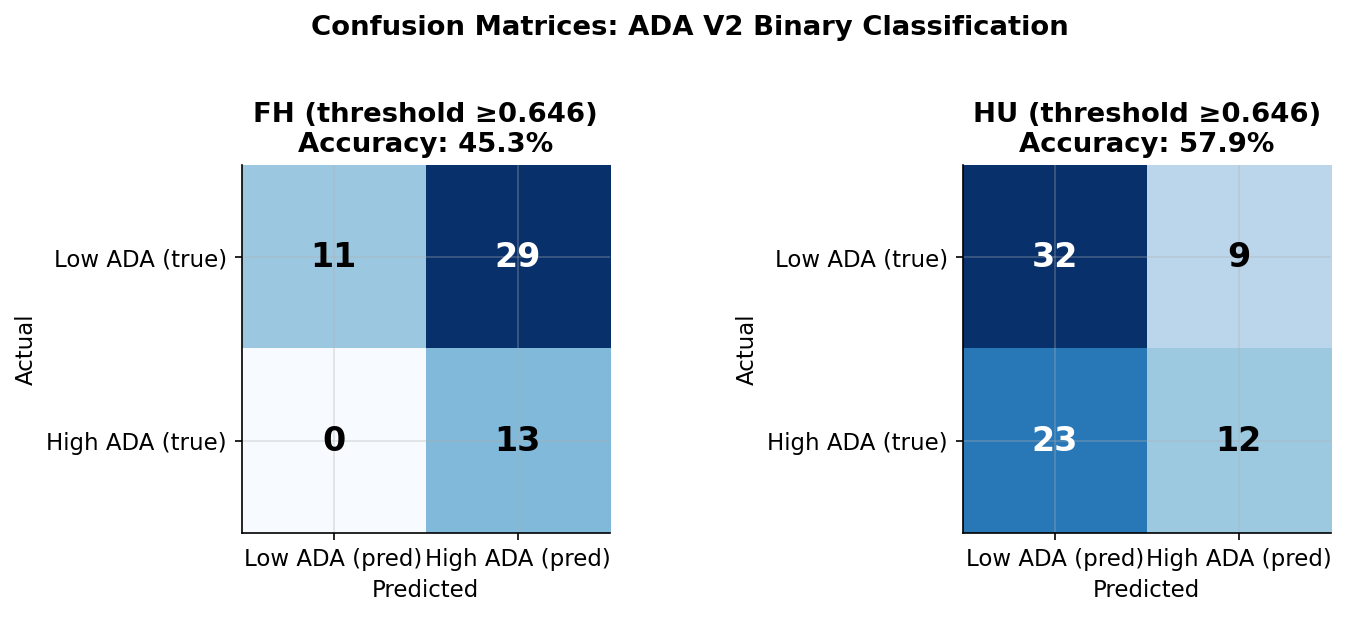
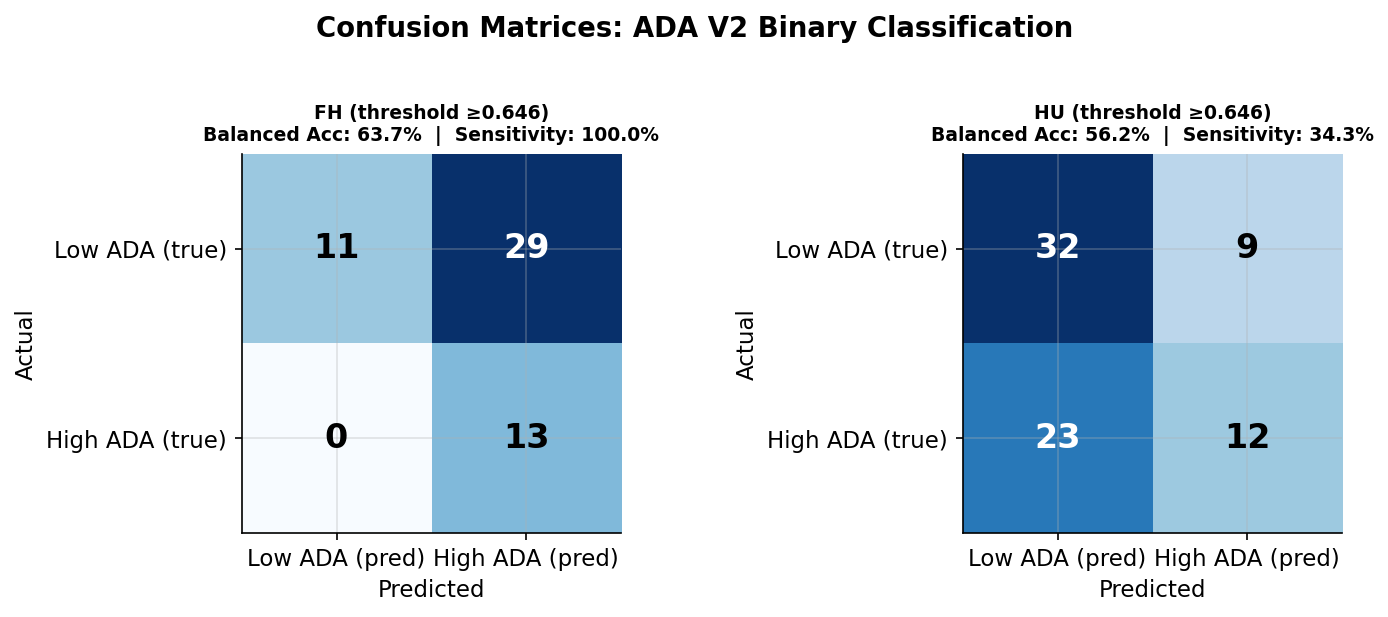
fix: confusion matrix shows Balanced Acc + Sensitivity; 6b:6d layout 1:2
Made-with: Cursor

diff --git a/immunogenicity_study.html b/immunogenicity_study.html
@@ -561,7 +561,8 @@
     <img src="images/immuno/fig_benchmark_confusion.png" alt="Confusion Matrices" style="width:100%;max-width:900px;height:auto;display:block;margin:0 auto;border-radius:4px;">
   </div>
 
-  <div style="display:grid;grid-template-columns:1fr 1fr;gap:20px;margin-bottom:20px;">
+  <!-- 6b + 6d: ROC (1/3) | Scatter (2/3) — three visual columns equally weighted -->
+  <div style="display:grid;grid-template-columns:1fr 2fr;gap:20px;margin-bottom:20px;">
     <div style="background:#fff;padding:20px;border-radius:12px;border:1px solid var(--border);box-shadow:0 2px 12px rgba(0,0,0,0.04);text-align:center;">
       <p style="font-size:14px;font-weight:700;color:#111827;margin:0 0 12px;">Figure 6b — ROC Curves (FH AUC=0.690 / HU AUC=0.505)</p>
       <div style="height:320px;display:flex;align-items:center;justify-content:center;background:#fafafa;border-radius:6px;overflow:hidden;">
